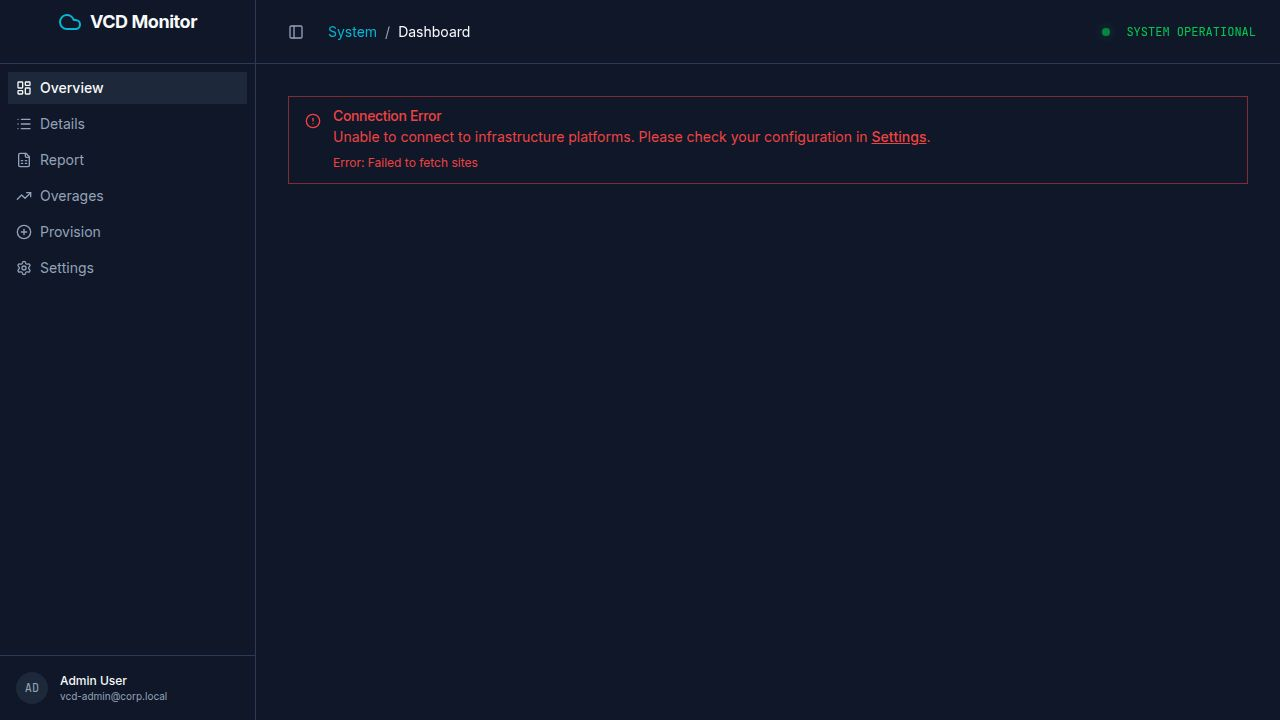
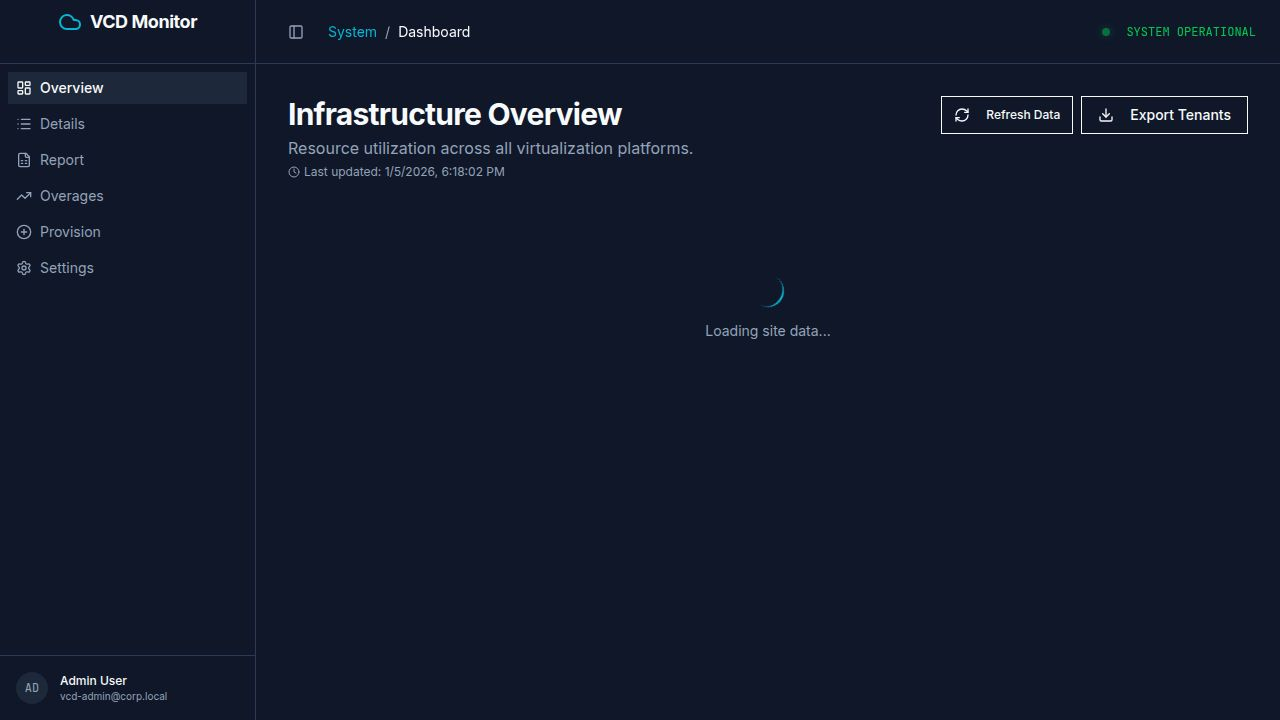
Improve VCD VSPC client lookup and add detailed logging
Update VSPC client retrieval logic to use `getPlatformSiteBySiteId` and enhance logging for easier debugging of VCD integration issues.

Replit-Commit-Author: Agent
Replit-Commit-Session-Id: 48328aac-8fe0-4897-b6db-a03af85eaad4
Replit-Commit-Checkpoint-Type: full_checkpoint
Replit-Commit-Event-Id: 21e42a36-3eb9-4175-89db-f74dad966c03
Replit-Commit-Screenshot-Url: https://storage.googleapis.com/screenshot-production-us-central1/68d4e5c8-1428-4aa7-8c24-014bfa106ed2/48328aac-8fe0-4897-b6db-a03af85eaad4/iRGtosZ

Changed region(s): [[0.2188, 0.1222, 0.75, 0.2444], [0.75, 0.1528, 0.9688, 0.1833], [0.5625, 0.4583, 0.6562, 0.4889]]

diff --git a/server/routes.ts b/server/routes.ts
@@ -14,15 +14,19 @@ async function getVspcClientForSite(siteId: string): Promise<VspcClient | null> 
     return vspcClientCache.get(siteId)!;
   }
   
-  const site = await storage.getPlatformSite(siteId);
+  // Use getPlatformSiteBySiteId to lookup by siteId (e.g. "ATL3") not UUID
+  const site = await storage.getPlatformSiteBySiteId(siteId);
   if (!site || site.platformType !== 'vcd') {
+    log(`VSPC: Site ${siteId} not found or not VCD`, 'routes');
     return null;
   }
   
   if (!site.vspcUrl || !site.vspcUsername || !site.vspcPassword) {
+    log(`VSPC: Site ${siteId} missing VSPC configuration (url: ${!!site.vspcUrl}, user: ${!!site.vspcUsername}, pass: ${!!site.vspcPassword})`, 'routes');
     return null;
   }
   
+  log(`VSPC: Creating client for ${siteId} at ${site.vspcUrl}`, 'routes');
   const client = createVspcClient({
     url: site.vspcUrl,
     username: site.vspcUsername,
